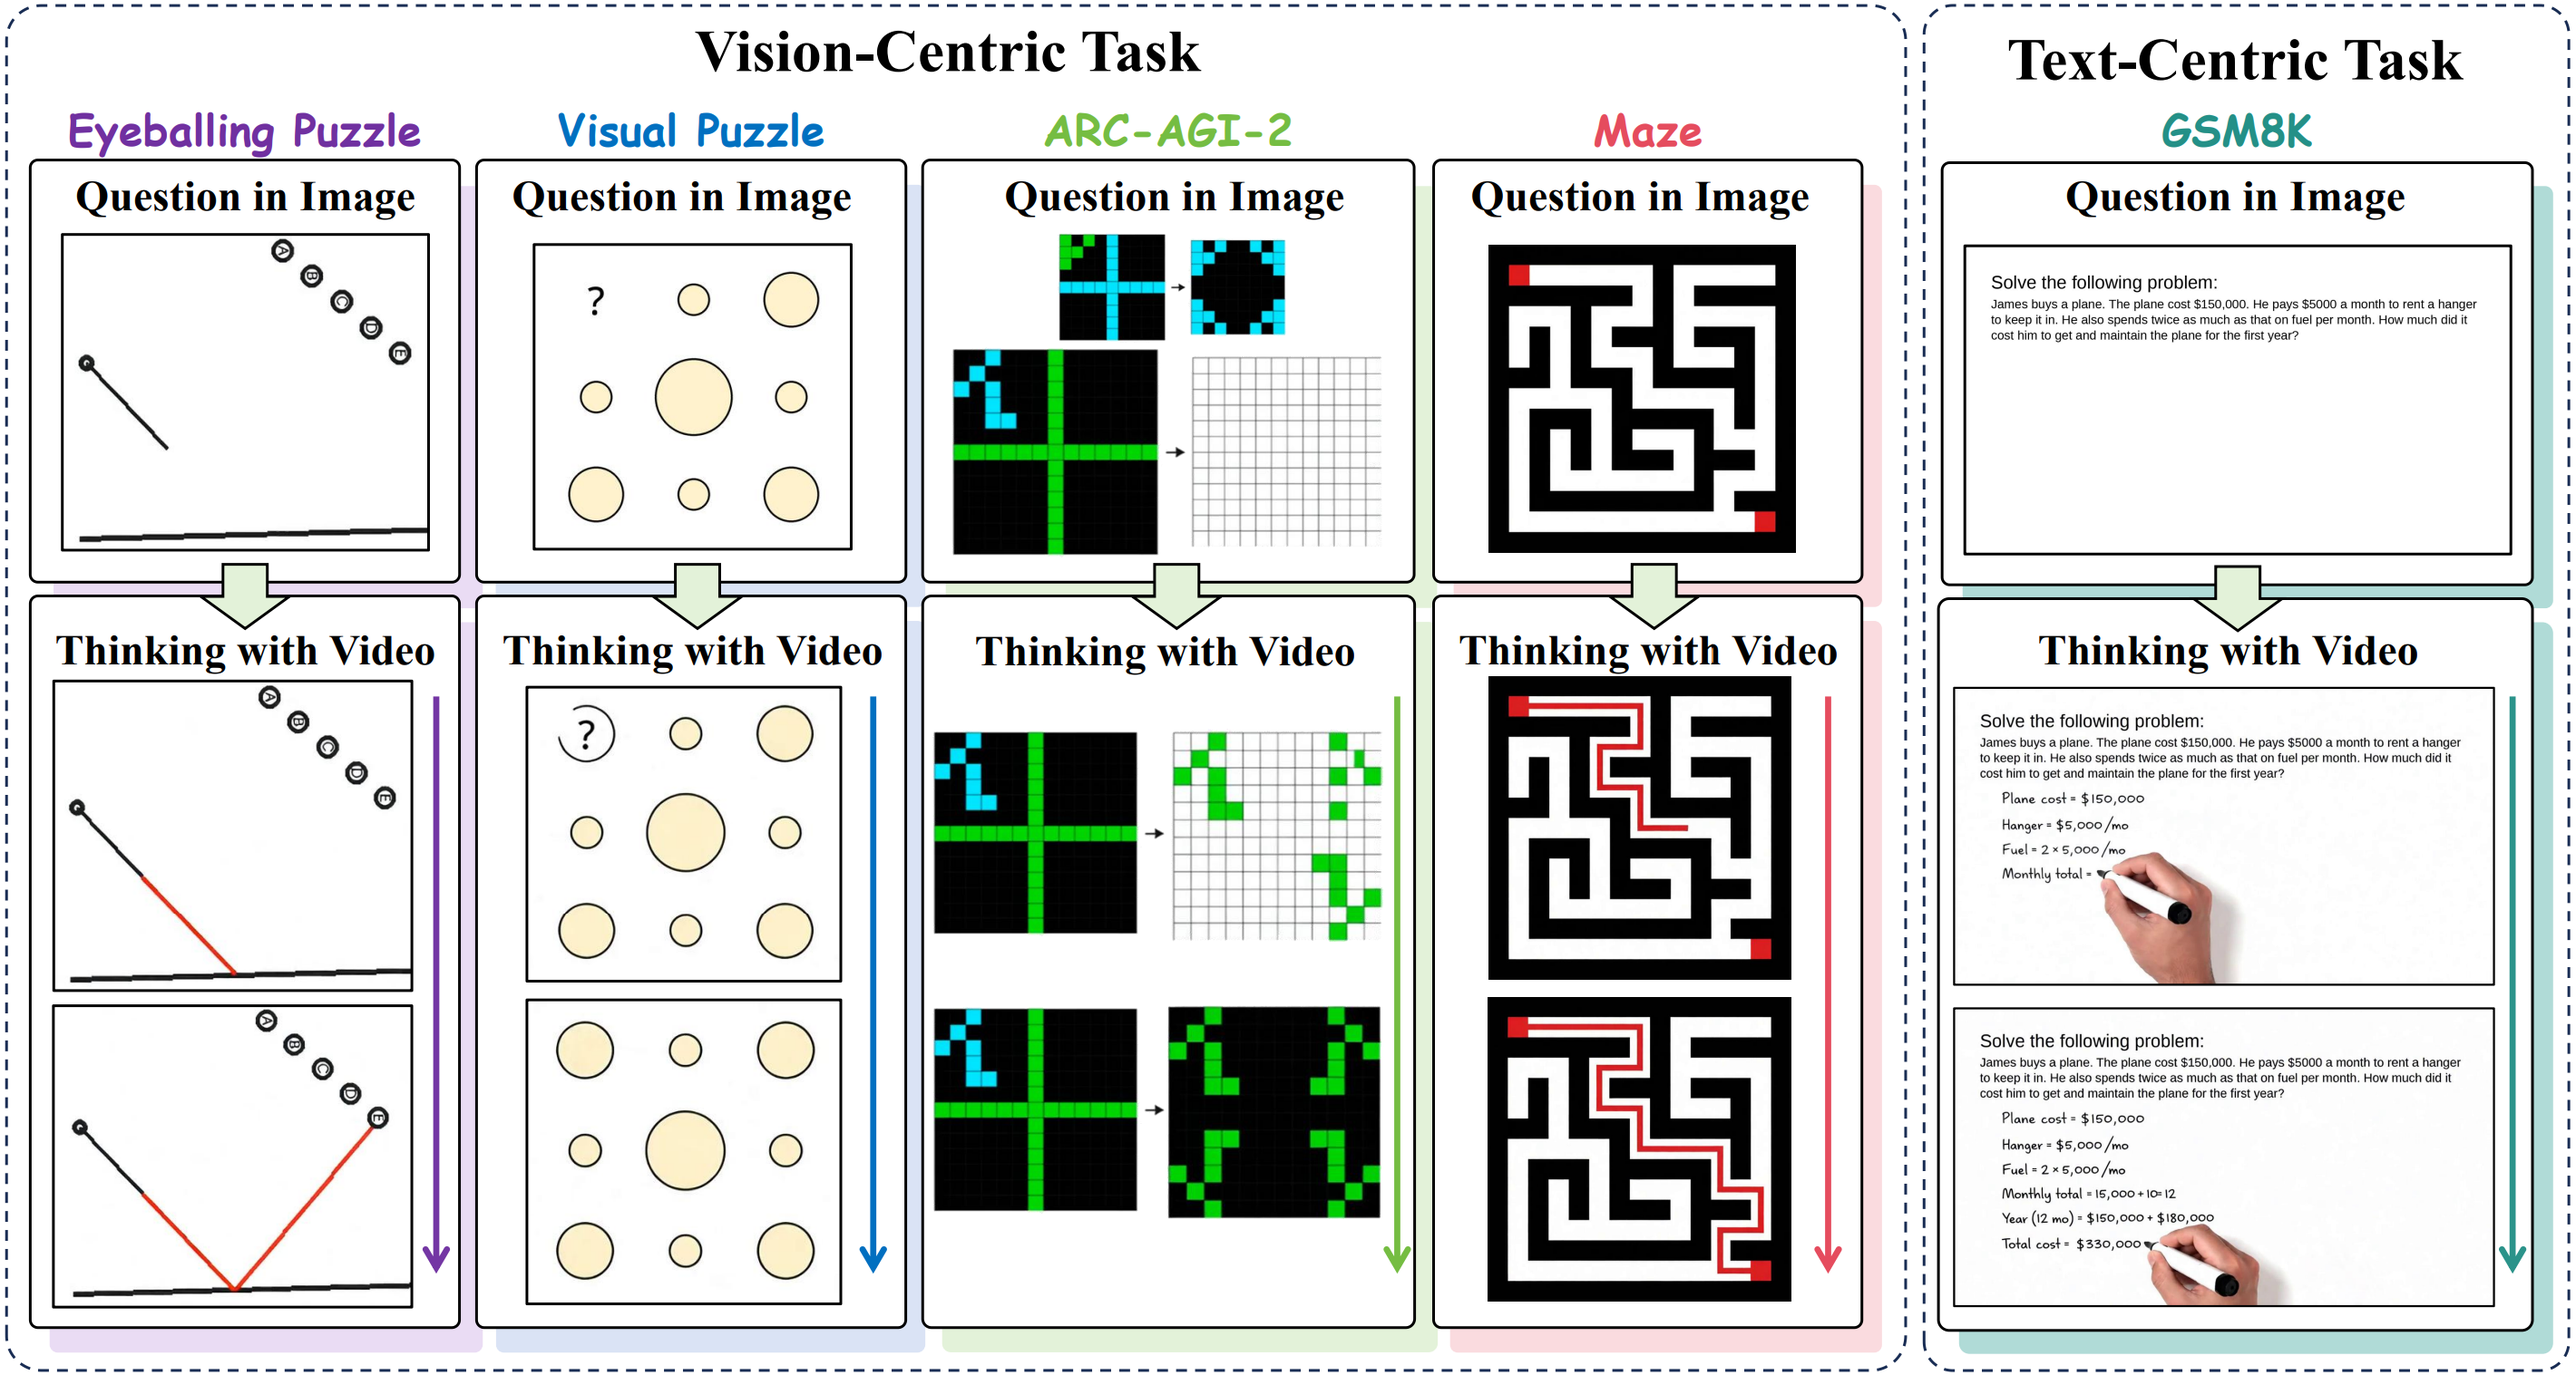
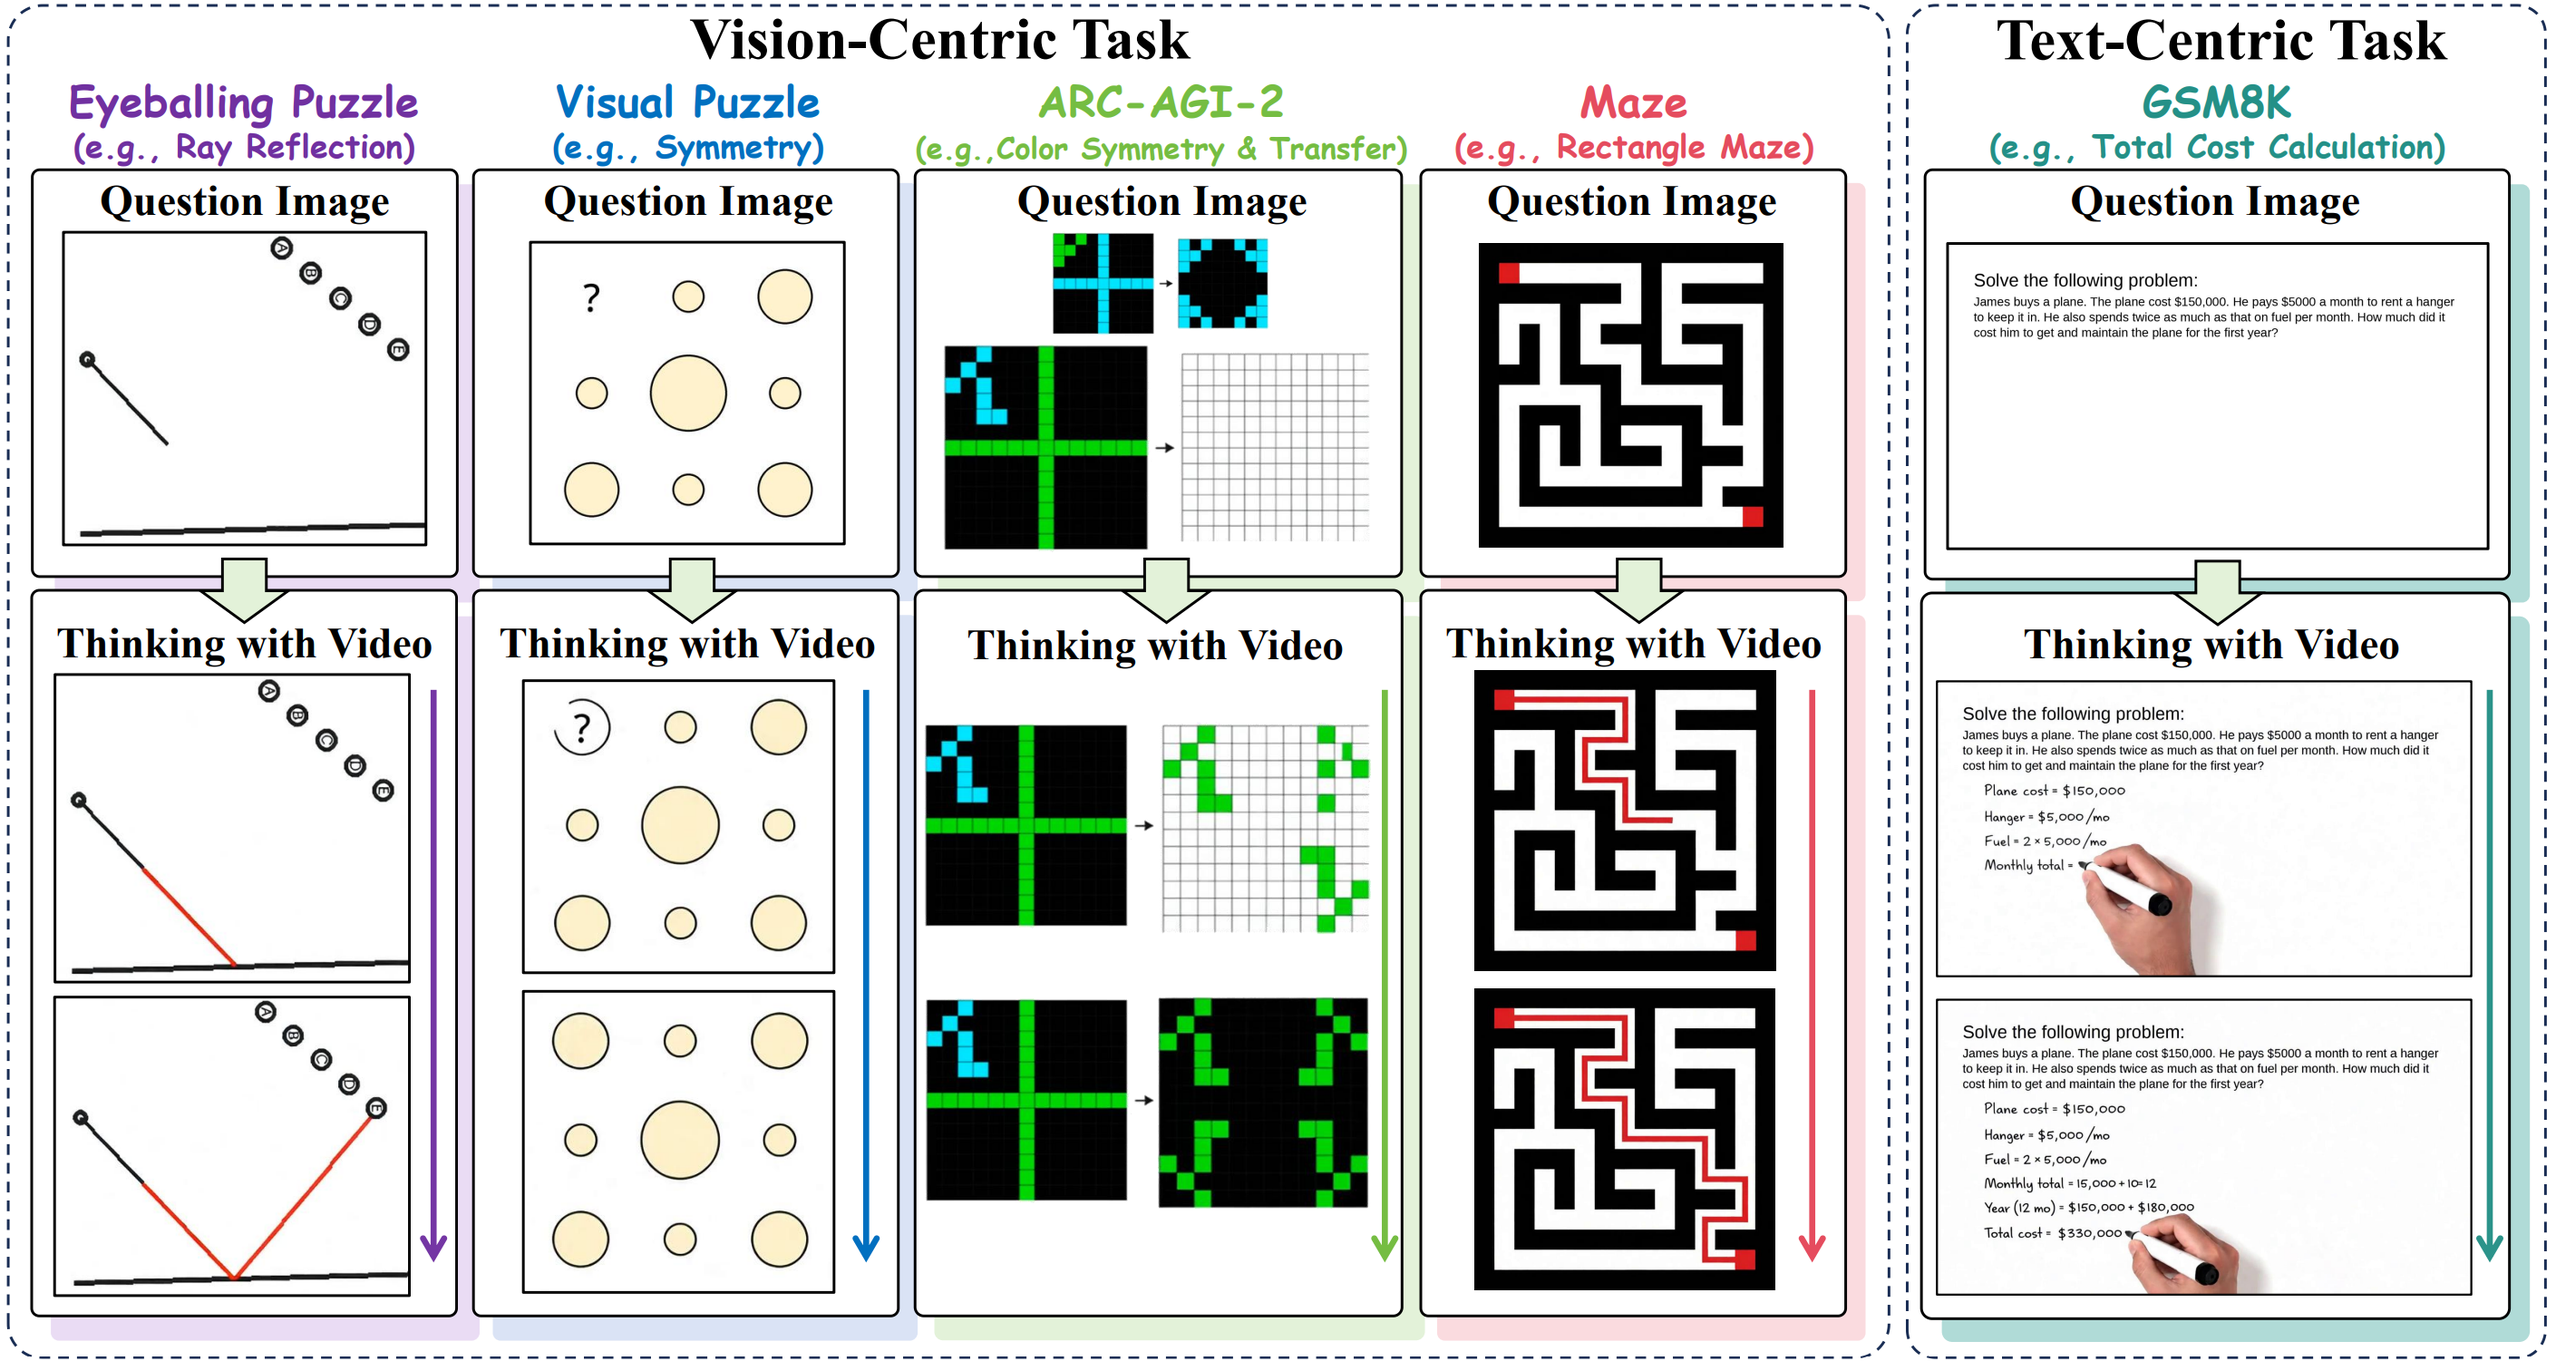
fix showcase title and update main picture

diff --git a/index.html b/index.html
@@ -830,7 +830,7 @@ James buys a plane.  The plane cost $150,000.  He pays $5000 a month to rent a h
         <!-- Second Row: Portrait Videos -->
         <div class="showcase-row showcase-row-portrait">
           <div class="showcase-video-item" data-title="Draw the ray of light starting from the small circle and reflecting off the line in black. Speak out which option the reflected ray will pass through using phonetic alphabet and mark it red. In portrait, no zoom, no pan.">
-            <div class="showcase-video-title">Ray Intersection</div>
+            <div class="showcase-video-title">Ray Reflection</div>
             <video autoplay loop muted playsinline>
               <source src="mp4/ray_reflect-main.mp4" type="video/mp4">
             </video>
